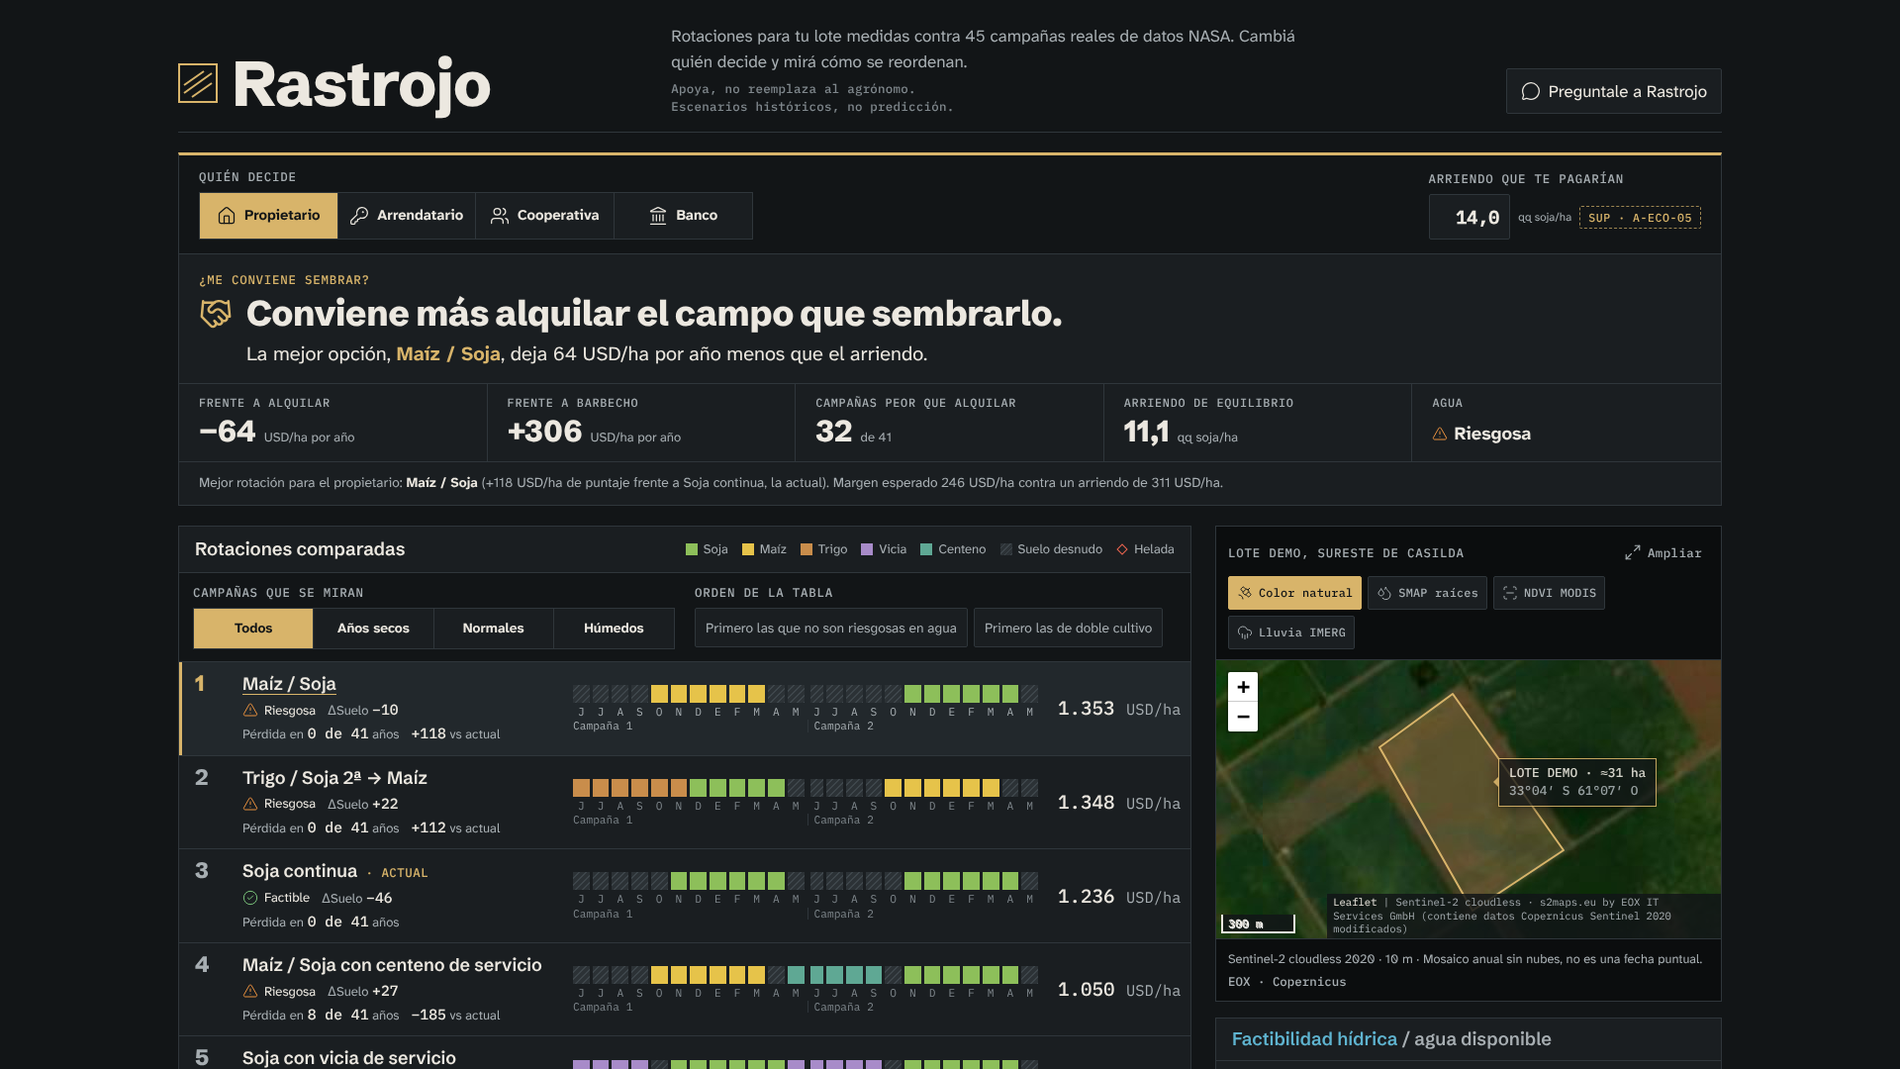
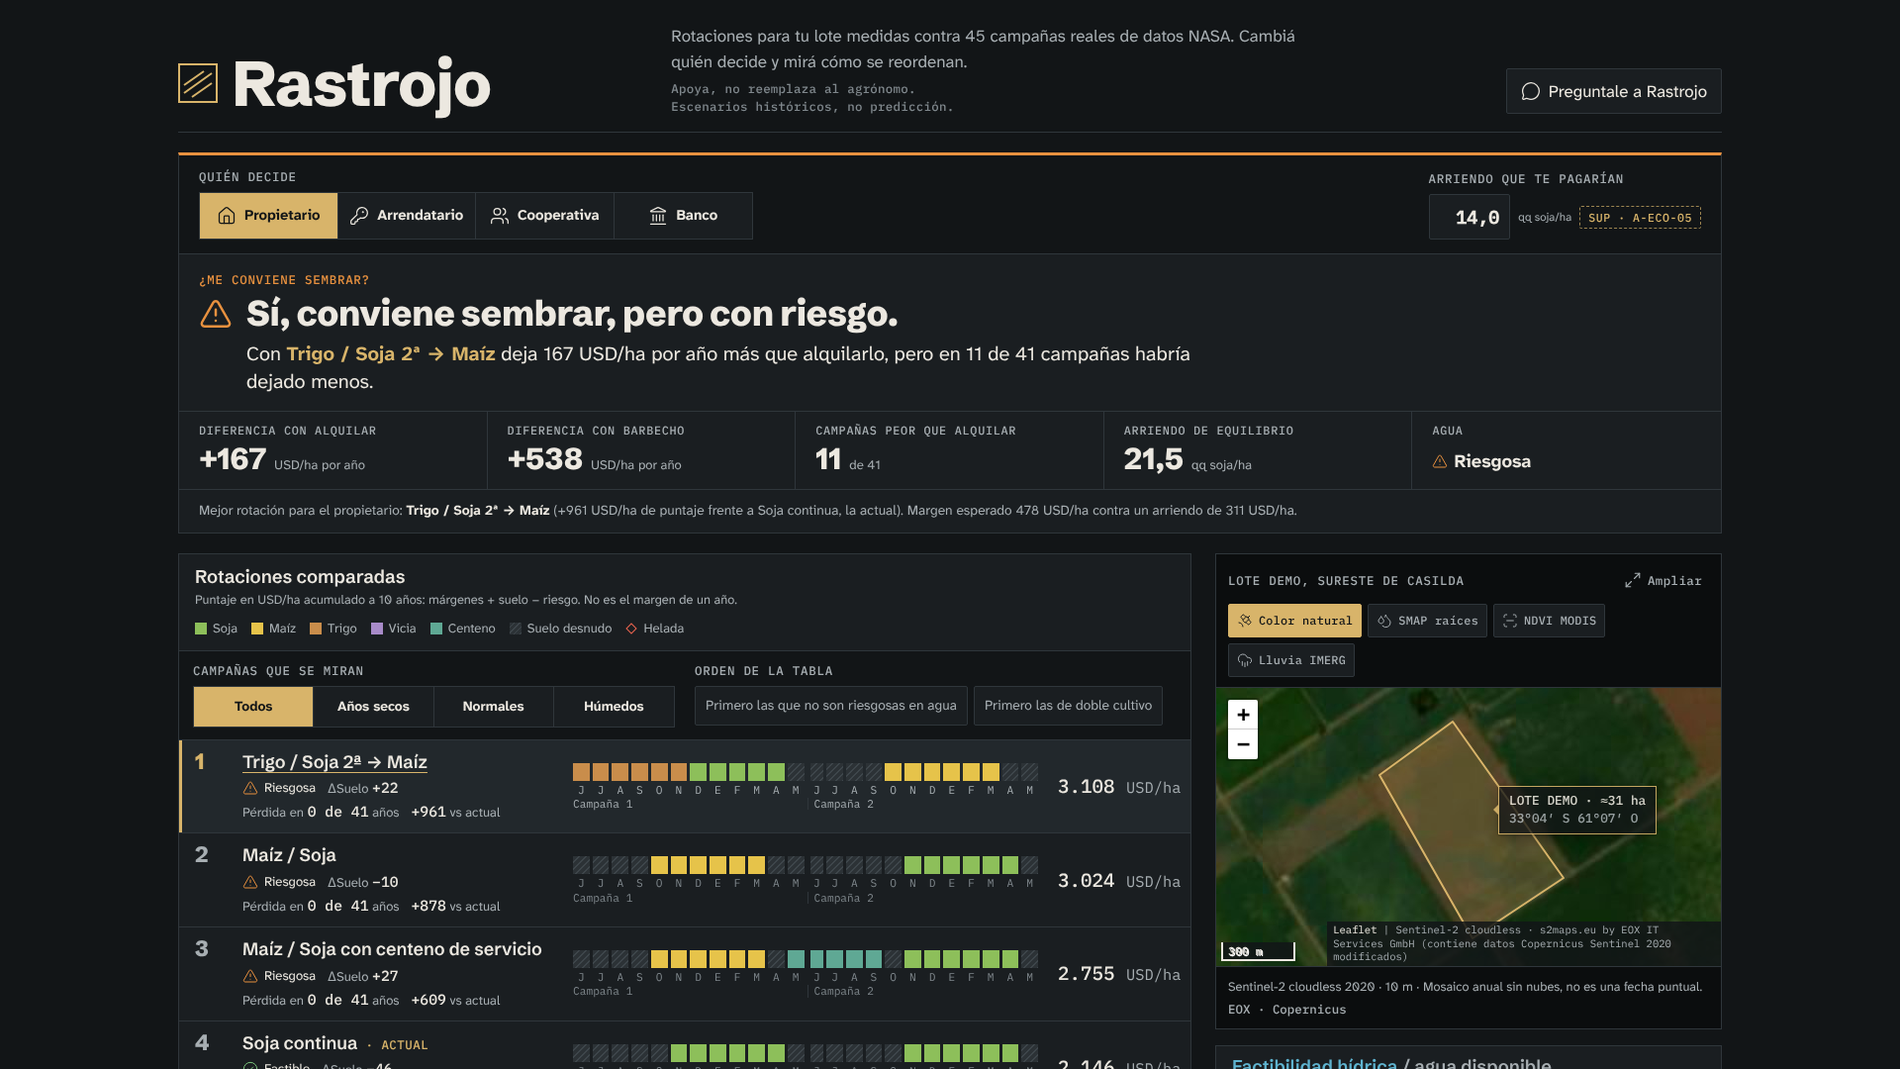
docs(pitch): update deck, team doc and screenshots to the GWETROOT results; web says 41 campaigns
Claude-Session: https://claude.ai/code/session_01JTGC2xwYJ8ZqjVg3XMmALB

diff --git a/docs/pitch/deck/slides/roles.html b/docs/pitch/deck/slides/roles.html
@@ -10,12 +10,12 @@
 <tr><td>Banco</td><td>medio</td><td>bajo</td><td>alto</td></tr>
 </table>
 <div class="pick">
-<div class="pickrow"><p class="who">Propietario</p><div><p class="what">Maíz / Soja</p><p class="why">Mira más años y valora el suelo.</p></div></div>
-<div class="pickrow"><p class="who">Cooperativa</p><div><p class="what">Maíz / Soja</p></div></div>
-<div class="pickrow"><p class="who">Banco</p><div><p class="what">Soja continua</p><p class="why">Castiga el riesgo.</p></div></div>
+<div class="pickrow"><p class="who">Propietario</p><div><p class="what">Trigo / Soja 2ª → Maíz</p><p class="why">Mira más años y valora el suelo.</p></div></div>
+<div class="pickrow"><p class="who">Cooperativa</p><div><p class="what">Trigo / Soja 2ª → Maíz</p></div></div>
+<div class="pickrow"><p class="who">Banco</p><div><p class="what">Soja continua</p><p class="why">Castiga el riesgo y limita el capital.</p></div></div>
 <div class="pickrow"><p class="who">Arrendatario</p><div><p class="what">Soja continua</p><p class="why">Para lo demás no le alcanza el capital.</p></div></div>
 </div>
 </div>
 <div class="foot"><span>Resultados reales del motor para el lote demo. Pesos por rol: valores de ejemplo, pendientes de validar con AFA.</span><span>6</span></div>
-<aside>[0:35] Y acá está la gracia. Mismo lote, mismos 41 años de datos. Para el propietario y la cooperativa gana maíz-soja: miran más años y valoran el suelo. Para el banco gana soja continua, porque castiga el riesgo. Y al arrendatario directamente no le alcanza el capital de trabajo para las rotaciones con maíz, así que su única opción es soja. No lo inventamos para la slide: es lo que devuelve el motor hoy, y lo pueden ver en vivo. Los pesos de cada rol son valores de ejemplo que vamos a validar con AFA.</aside>
+<aside>[0:35] Y acá está la gracia. Mismo lote, mismos 41 años de datos. Para el propietario y la cooperativa gana trigo, soja de segunda y maíz: miran más años, valoran el suelo y aprovechan dos cosechas. Para el banco gana soja continua: castiga el riesgo y con su tope de capital las rotaciones con maíz no entran. Y al arrendatario directamente no le alcanza el capital de trabajo para las rotaciones con maíz, así que su única opción es soja. No lo inventamos para la slide: es lo que devuelve el motor hoy, y lo pueden ver en vivo. Los pesos de cada rol son valores de ejemplo que vamos a validar con AFA.</aside>
 </section>

diff --git a/docs/pitch/deck/slides/factibilidad.html b/docs/pitch/deck/slides/factibilidad.html
@@ -4,15 +4,15 @@
 <div class="stats">
 <div class="stat"><p class="num">41</p><p class="lbl">campañas reales de NASA POWER en el cálculo</p></div>
 <div class="stat"><p class="num">5</p><p class="lbl">rotaciones del lote demo comparadas</p></div>
-<div class="stat"><p class="num">320</p><p class="lbl">tests automáticos en verde (motor, API y web)</p></div>
+<div class="stat"><p class="num">324</p><p class="lbl">tests automáticos en verde (motor, API y web)</p></div>
 <div class="stat"><p class="num">1</p><p class="lbl">hash por evaluación: mismo input, mismo resultado</p></div>
 </div>
 <div class="checks">
 <div class="check"><x-icon name="CheckCircle"></x-icon><p>Online: web y API en rastrojo.vercel.app</p></div>
 <div class="check"><x-icon name="CheckCircle"></x-icon><p>Cada supuesto con id, a revisar con AFA</p></div>
-<div class="check"><x-icon name="CheckCircle"></x-icon><p>SMAP, IMERG y GRACE-FO: el motor avisa que faltan</p></div>
+<div class="check"><x-icon name="CheckCircle"></x-icon><p>Humedad del suelo de cada campaña: NASA POWER (GWETROOT)</p></div>
 <div class="check"><x-icon name="CheckCircle"></x-icon><p>Validación: rindes por año seco contra MAGyP</p></div>
 </div>
 <div class="foot"><span>Código abierto, MIT · github.com/agustindelmonti/nasa-space-apps-2026</span><span>7</span></div>
-<aside>[0:30] ¿Es real? Sí. Está online. Usa 41 campañas reales de NASA POWER, compara cinco rotaciones y tiene 320 tests automáticos. Cada evaluación lleva un hash: mismo input, mismo resultado, auditable. Y algo que nos importa: lo que no medimos, lo decimos. Cada supuesto tiene un id para revisar con AFA, y cuando falta un dato satelital, como SMAP o GRACE-FO, el motor lo avisa en vez de inventarlo. Para validar, vamos a contrastar los rindes de años secos contra los rindes departamentales del MAGyP.</aside>
+<aside>[0:30] ¿Es real? Sí. Está online. Usa 41 campañas reales de NASA POWER, compara cinco rotaciones y tiene 324 tests automáticos. Cada evaluación lleva un hash: mismo input, mismo resultado, auditable. Y algo que nos importa: lo que no medimos, lo decimos. Cada supuesto tiene un id para revisar con AFA, la humedad del suelo al inicio de cada campaña sale de NASA POWER, y cuando falta un dato, como la napa o SMAP a 9 km, el motor lo avisa en vez de inventarlo. Para validar, vamos a contrastar los rindes de años secos contra los rindes departamentales del MAGyP.</aside>
 </section>

diff --git a/docs/pitch/deck/slides/solucion.html b/docs/pitch/deck/slides/solucion.html
@@ -1,7 +1,7 @@
 <section id="solucion" class="light withfoot" data-transition="fade">
 <p class="eyebrow">La solución</p>
 <h2 class="title">Elegís quién decide y te dice <span class="hl">si conviene sembrar, y qué.</span></h2>
-<img class="shot" src="/_blob/622df4cb5d5a43b43dcccea079f1d5c1" alt="Captura de PolPilot: franja ¿Me conviene sembrar?, ranking de cinco rotaciones con sus franjas de campaña y mapa satelital del lote">
+<img class="shot" src="/_blob/0783229d5a0b583c2f8a01472115816a" alt="Captura de PolPilot: franja ¿Me conviene sembrar?, ranking de cinco rotaciones con sus franjas de campaña y mapa satelital del lote">
 <div class="foot"><span>Demo en vivo: rastrojo.vercel.app</span><span>3</span></div>
-<aside>[0:30] PolPilot hace eso. Elegís quién decide, y arriba de todo te contesta en criollo: ¿me conviene sembrar? Acá dice que, con un arriendo de 14 quintales, al propietario le conviene más alquilar. Abajo ordena cinco rotaciones del lote, cada una con su franja mes a mes: qué cultivo está, cuándo queda el suelo desnudo y dónde hay riesgo de helada. Y a la derecha el lote visto desde el satélite. [Si hay demo en vivo: cambiar de Propietario a Banco y mostrar cómo se reordena.]</aside>
+<aside>[0:30] PolPilot hace eso. Elegís quién decide, y arriba de todo te contesta en criollo: ¿me conviene sembrar? Acá, con un arriendo de 14 quintales, al propietario le conviene sembrar, con riesgo: deja 167 dólares por hectárea por año más que alquilar. Si el arriendo pasa los 21 quintales y medio, conviene alquilar. Abajo ordena cinco rotaciones del lote, cada una con su franja mes a mes: qué cultivo está, cuándo queda el suelo desnudo y dónde hay riesgo de helada. Y a la derecha el lote visto desde el satélite. [Si hay demo en vivo: cambiar de Propietario a Banco y mostrar cómo se reordena.]</aside>
 </section>

diff --git a/docs/pitch/deck/slides/referencias.html b/docs/pitch/deck/slides/referencias.html
@@ -2,7 +2,7 @@
 <p class="eyebrow">Referencias</p>
 <table class="refs">
 <tr><th style="width:24%;">Dataset</th><th style="width:30%;">Producto o capa</th><th style="width:16%;">Uso</th><th style="width:30%;">Link</th></tr>
-<tr><td>NASA POWER</td><td>Diario por punto: PRECTOTCORR, T2M, radiación, viento, humedad</td><td>En el cálculo</td><td>power.larc.nasa.gov</td></tr>
+<tr><td>NASA POWER</td><td>Diario por punto: PRECTOTCORR, T2M, radiación, viento, humedad, GWETROOT (humedad del suelo)</td><td>En el cálculo</td><td>power.larc.nasa.gov</td></tr>
 <tr><td>NASA GIBS · MODIS</td><td>MODIS_Terra_NDVI_8Day</td><td>Mapa</td><td>gibs.earthdata.nasa.gov</td></tr>
 <tr><td>NASA GIBS · SMAP</td><td>SMAP_L4_Analyzed_Root_Zone_Soil_Moisture</td><td>Mapa</td><td>gibs.earthdata.nasa.gov</td></tr>
 <tr><td>NASA GIBS · GPM</td><td>IMERG_Precipitation_Rate</td><td>Mapa</td><td>gibs.earthdata.nasa.gov</td></tr>

diff --git a/web/src/App.tsx b/web/src/App.tsx
@@ -127,7 +127,7 @@ export function App({ source, agent }: { source: DataSource; agent?: AgentClient
             <h1>Rastrojo</h1>
           </div>
           <div className="lede">
-            <p className="soft">Rotaciones para tu lote medidas contra 45 campañas reales de datos NASA. Cambiá quién decide y mirá cómo se reordenan.</p>
+            <p className="soft">Rotaciones para tu lote medidas contra 41 campañas reales de datos NASA. Cambiá quién decide y mirá cómo se reordenan.</p>
             <p className="legends">
               <span>Apoya, no reemplaza al agrónomo.</span>
               <span>Escenarios históricos, no predicción.</span>

diff --git a/docs/pitch/contexto-equipo.md b/docs/pitch/contexto-equipo.md
@@ -62,7 +62,7 @@ El motor es 100 % determinista: mismos datos, mismo resultado, sin IA, sin azar 
 
 1. **Clima del punto del lote**: NASA POWER diario 1981-2025 (lluvia corregida, temperaturas, radiación, viento, humedad). La radiación falta en 1981-83, así que la serie útil arranca en 1984.
 2. **41 campañas reales** (1984 a 2024), clasificadas en seca, normal o húmeda por terciles de lluvia; cada campaña pesa lo mismo.
-3. **Balance de agua diario FAO-56** con ET0 Penman-Monteith calculada con POWER: factible, riesgoso o no factible por cultivo y campaña.
+3. **Balance de agua diario FAO-56** con ET0 Penman-Monteith calculada con POWER y humedad inicial de cada campaña desde GWETROOT: factible, riesgoso o no factible. Con estrés severo o perfil sin recargar se aplica el rinde de año seco; el estrés moderado queda como riesgo.
 4. **Calendario de vulnerabilidad**: heladas, déficit, calor en floración y lluvia extrema por mes.
 5. **Suelo**: índice ΔSuelo de -100 a +100 (cobertura, carbono, nitrógeno, malezas, raíces), meses de suelo desnudo y lluvia sobre suelo desnudo.
 6. **Economía**: margen bruto por campaña según el tipo de año; campañas con pérdida, peor año y pico de capital de trabajo.
@@ -92,13 +92,13 @@ Formal: J_u(r) = AF(i_u, H_u) · Ē(r) + α_u · ΔS(r) − λ_u · AF(i_u, H_u)
 | Cooperativa | 5 años | 8 % | 3 | 0,5 | sin tope |
 | Banco | 3 años | 10 % | 0,5 | 1,5 | 600 USD/ha |
 
-Valores de ejemplo, pendientes de validar con AFA. Resultado real del motor: propietario y cooperativa → maíz/soja; banco → soja continua; arrendatario → soja continua (las rotaciones con maíz superan su capital). Descartamos a propósito un término propio por rol y coeficientes κ de agua o ingreso: exigían inventar coeficientes sin fuente.
+Valores de ejemplo, pendientes de validar con AFA. Resultado real del motor: propietario y cooperativa → trigo/soja 2ª → maíz (maíz/soja muy cerca); banco y arrendatario → soja continua (las rotaciones con maíz superan su capital). Descartamos a propósito un término propio por rol y coeficientes κ de agua o ingreso: exigían inventar coeficientes sin fuente.
 
 ## Datos NASA
 
 | Dataset | Producto | Estado | Para qué | Resolución y limitación |
 | --- | --- | --- | --- | --- |
-| NASA POWER | Diario por punto | En el cálculo | Campañas, ET0, agua, heladas, calor, riesgo | ~0,5°; reanálisis |
+| NASA POWER | Diario por punto, incluida GWETROOT (humedad del suelo) | En el cálculo | Campañas, ET0, agua, humedad inicial de cada campaña, heladas, calor, riesgo | ~0,5°; reanálisis |
 | MODIS (GIBS) | MODIS_Terra_NDVI_8Day | Solo mapa | Cobertura y vigor | 250 m |
 | SMAP (GIBS) | SMAP_L4_Analyzed_Root_Zone_Soil_Moisture | Solo mapa | Humedad de raíces | ~9 km |
 | GPM IMERG (GIBS) | IMERG_Precipitation_Rate | Solo mapa | Lluvia | ~0,1° |
@@ -106,7 +106,7 @@ Valores de ejemplo, pendientes de validar con AFA. Resultado real del motor: pro
 | GPM IMERG | Final diario | Próximo (falta Earthdata) | Cruce con POWER, lluvia extrema | ~0,1° |
 | GRACE-FO | Mascons | Próximo (falta Earthdata) | Contexto regional de agua | ~300 km, mensual |
 
-Sin Earthdata, la humedad inicial es un supuesto (A-WAT-12) y el motor avisa INITIAL_MOISTURE_ASSUMED. Los valores del panel de factibilidad hídrica para GRACE-FO y SMAP son de ejemplo; la lluvia de verano (412 mm) es real.
+La humedad inicial de cada campaña sale de GWETROOT de NASA POWER (escalada con A-WAT-18); SMAP L4 a 9 km queda como mejora. Los valores del panel de factibilidad hídrica para GRACE-FO y SMAP son de ejemplo; la lluvia de verano (412 mm) es real.
 
 ## Qué hace y qué no hace
 
@@ -126,11 +126,11 @@ Sin Earthdata, la humedad inicial es un supuesto (A-WAT-12) y el motor avisa INI
 
 ## Supuestos y validación
 
-Unos 59 supuestos con id en `data/assumptions.yaml`, casi todos pendientes de AFA. Cada número lleva badge OBS, DER, SUP o USU. Lo más sensible: con 14 qq/ha de arriendo conviene alquilar para todos los roles; el equilibrio de maíz/soja es 11,1 qq/ha. Validación: AFA (rotaciones, ventanas, Kc, agua útil, rindes y costos), rindes de años secos contra MAGyP, precios de la BCR, SMAP L4 y datos de campo.
+Unos 59 supuestos con id en `data/assumptions.yaml`, casi todos pendientes de AFA. Cada número lleva badge OBS, DER, SUP o USU. Lo más sensible: con 14 qq/ha de arriendo conviene sembrar, con riesgo, para todos los roles; el equilibrio es 21,5 qq/ha para el propietario y 16,5 para el arrendatario. Validación: AFA (rotaciones, ventanas, Kc, agua útil, rindes y costos), rindes de años secos contra MAGyP, precios de la BCR, SMAP L4 y datos de campo.
 
 ## Arquitectura y cómo correrlo
 
-Python 3.12 + Pydantic v2 (dominio y motor), FastAPI (API), Vite + React 19 + Leaflet (web), Vercel (deploy desde main). 243 tests de Python, 32 de Vitest y 15 end-to-end en 3 tamaños de pantalla. Local: `uv sync`, `uv run pytest`, `uv run uvicorn rastrojo.adapters.api:app --port 8000`, y en `web/`: `npm ci` y `VITE_API_URL=http://localhost:8000 npm run dev`.
+Python 3.12 + Pydantic v2 (dominio y motor), FastAPI (API), Vite + React 19 + Leaflet (web), Vercel (deploy desde main). 247 tests de Python, 32 de Vitest y 15 end-to-end en 3 tamaños de pantalla. Local: `uv sync`, `uv run pytest`, `uv run uvicorn rastrojo.adapters.api:app --port 8000`, y en `web/`: `npm ci` y `VITE_API_URL=http://localhost:8000 npm run dev`.
 
 ## Diferenciales
 
@@ -138,7 +138,7 @@ Revisamos 16 repos de Field Shift y 8 de Latinoamérica. Nadie modela la tenenci
 
 ## Pitch y demo
 
-8 slides en 4:00 (deck: https://claude.ai/artifact/APHhQmfuP6TYJRSMKqCccB). Demo en vivo: abrir la web antes; propietario con 14 qq/ha (conviene alquilar, equilibrio 11,1); cambiar a 10 qq/ha (sí, con riesgo); cambiar a banco o arrendatario; si sobra tiempo, el chat.
+8 slides en 4:00 (deck: https://claude.ai/artifact/APHhQmfuP6TYJRSMKqCccB). Demo en vivo: abrir la web antes; propietario con 14 qq/ha (sí, conviene sembrar con riesgo; equilibrio 21,5); cambiar a 25 qq/ha (conviene alquilar); cambiar a banco o arrendatario; si sobra tiempo, el chat.
 
 ## Preguntas probables del jurado
 
@@ -149,7 +149,7 @@ Revisamos 16 repos de Field Shift y 8 de Latinoamérica. Nadie modela la tenenci
 | ¿Y SMAP, IMERG, GRACE-FO? | En el mapa y diseñados para el motor; falta Earthdata. |
 | ¿Precios y rindes? | Supuestos de ejemplo con id, a validar con AFA y BCR. |
 | ¿Usan IA? | Para programar (declarado). El motor y el chat son deterministas. |
-| ¿Por qué conviene alquilar? | Margen esperado ~246 USD/ha contra arriendo de 14 qq ≈ 311 USD/ha; con menos de 11,1 qq conviene sembrar. |
+| ¿Cuándo conviene alquilar? | La mejor rotación del propietario deja ~478 USD/ha por año; 14 qq ≈ 311 USD/ha. Con más de 21,5 qq conviene alquilar. |
 | ¿Qué tan preciso es para mi lote? | POWER es una grilla de ~50 km; por eso combinar con datos de campo. |
 | ¿Por qué ustedes? | Somos el equipo de PolPilot, que ya acompaña al productor del lote al camión; hacemos bots de WhatsApp para el agro; somos de Rosario. [COMPLETAR: perfiles] |
 

diff --git a/docs/pitch/slides.md b/docs/pitch/slides.md
@@ -40,7 +40,7 @@ Y nadie sabe cómo viene el año. Pero sí sabemos cómo vinieron los últimos 4
 La solución  
 **Elegís quién decide y te dice si conviene sembrar, y qué.**  
 
-**Notas del orador:** [0:30] PolPilot hace eso. Elegís quién decide, y arriba de todo te contesta en criollo: ¿me conviene sembrar? Acá dice que, con un arriendo de 14 quintales, al propietario le conviene más alquilar. Abajo ordena cinco rotaciones del lote, cada una con su franja mes a mes: qué cultivo está, cuándo queda el suelo desnudo y dónde hay riesgo de helada. Y a la derecha el lote visto desde el satélite. [Si hay demo en vivo: cambiar de Propietario a Banco y mostrar cómo se reordena.]
+**Notas del orador:** [0:30] PolPilot hace eso. Elegís quién decide, y arriba de todo te contesta en criollo: ¿me conviene sembrar? Acá, con un arriendo de 14 quintales, al propietario le conviene sembrar, con riesgo: deja 167 dólares por hectárea por año más que alquilar. Si el arriendo pasa los 21 quintales y medio, conviene alquilar. Abajo ordena cinco rotaciones del lote, cada una con su franja mes a mes: qué cultivo está, cuándo queda el suelo desnudo y dónde hay riesgo de helada. Y a la derecha el lote visto desde el satélite. [Si hay demo en vivo: cambiar de Propietario a Banco y mostrar cómo se reordena.]
 
 ---
 
@@ -102,18 +102,18 @@ Mismo lote, cuatro roles
 | Cooperativa | medio | medio | medio |
 | Banco | medio | bajo | alto |
 Propietario  
-Maíz / Soja  
+Trigo / Soja 2ª → Maíz  
 Mira más años y valora el suelo.  
 Cooperativa  
-Maíz / Soja  
+Trigo / Soja 2ª → Maíz  
 Banco  
 Soja continua  
-Castiga el riesgo.  
+Castiga el riesgo y limita el capital.  
 Arrendatario  
 Soja continua  
 Para lo demás no le alcanza el capital.  
 
-**Notas del orador:** [0:35] Y acá está la gracia. Mismo lote, mismos 41 años de datos. Para el propietario y la cooperativa gana maíz-soja: miran más años y valoran el suelo. Para el banco gana soja continua, porque castiga el riesgo. Y al arrendatario directamente no le alcanza el capital de trabajo para las rotaciones con maíz, así que su única opción es soja. No lo inventamos para la slide: es lo que devuelve el motor hoy, y lo pueden ver en vivo. Los pesos de cada rol son valores de ejemplo que vamos a validar con AFA.
+**Notas del orador:** [0:35] Y acá está la gracia. Mismo lote, mismos 41 años de datos. Para el propietario y la cooperativa gana trigo, soja de segunda y maíz: miran más años, valoran el suelo y aprovechan dos cosechas. Para el banco gana soja continua: castiga el riesgo y con su tope de capital las rotaciones con maíz no entran. Y al arrendatario directamente no le alcanza el capital de trabajo para las rotaciones con maíz, así que su única opción es soja. No lo inventamos para la slide: es lo que devuelve el motor hoy, y lo pueden ver en vivo. Los pesos de cada rol son valores de ejemplo que vamos a validar con AFA.
 
 ---
 
@@ -125,16 +125,16 @@ Factibilidad
 campañas reales de NASA POWER en el cálculo  
 5  
 rotaciones del lote demo comparadas  
-320  
+324  
 tests automáticos en verde (motor, API y web)  
 1  
 hash por evaluación: mismo input, mismo resultado  
 Online: web y API en rastrojo.vercel.app  
 Cada supuesto con id, a revisar con AFA  
-SMAP, IMERG y GRACE-FO: el motor avisa que faltan  
+Humedad del suelo de cada campaña: NASA POWER (GWETROOT)  
 Validación: rindes por año seco contra MAGyP  
 
-**Notas del orador:** [0:30] ¿Es real? Sí. Está online. Usa 41 campañas reales de NASA POWER, compara cinco rotaciones y tiene 320 tests automáticos. Cada evaluación lleva un hash: mismo input, mismo resultado, auditable. Y algo que nos importa: lo que no medimos, lo decimos. Cada supuesto tiene un id para revisar con AFA, y cuando falta un dato satelital, como SMAP o GRACE-FO, el motor lo avisa en vez de inventarlo. Para validar, vamos a contrastar los rindes de años secos contra los rindes departamentales del MAGyP.
+**Notas del orador:** [0:30] ¿Es real? Sí. Está online. Usa 41 campañas reales de NASA POWER, compara cinco rotaciones y tiene 324 tests automáticos. Cada evaluación lleva un hash: mismo input, mismo resultado, auditable. Y algo que nos importa: lo que no medimos, lo decimos. Cada supuesto tiene un id para revisar con AFA, la humedad del suelo al inicio de cada campaña sale de NASA POWER, y cuando falta un dato, como la napa o SMAP a 9 km, el motor lo avisa en vez de inventarlo. Para validar, vamos a contrastar los rindes de años secos contra los rindes departamentales del MAGyP.
 
 ---
 
@@ -170,7 +170,7 @@ Próximo paso: sumar SMAP, IMERG y GRACE-FO al cálculo, validar los supuestos c
 Referencias  
 | Dataset | Producto o capa | Uso | Link |
 | --- | --- | --- | --- |
-| NASA POWER | Diario por punto: PRECTOTCORR, T2M, radiación, viento, humedad | En el cálculo | power.larc.nasa.gov |
+| NASA POWER | Diario por punto: PRECTOTCORR, T2M, radiación, viento, humedad, GWETROOT (humedad del suelo) | En el cálculo | power.larc.nasa.gov |
 | NASA GIBS · MODIS | MODIS_Terra_NDVI_8Day | Mapa | gibs.earthdata.nasa.gov |
 | NASA GIBS · SMAP | SMAP_L4_Analyzed_Root_Zone_Soil_Moisture | Mapa | gibs.earthdata.nasa.gov |
 | NASA GIBS · GPM | IMERG_Precipitation_Rate | Mapa | gibs.earthdata.nasa.gov |
